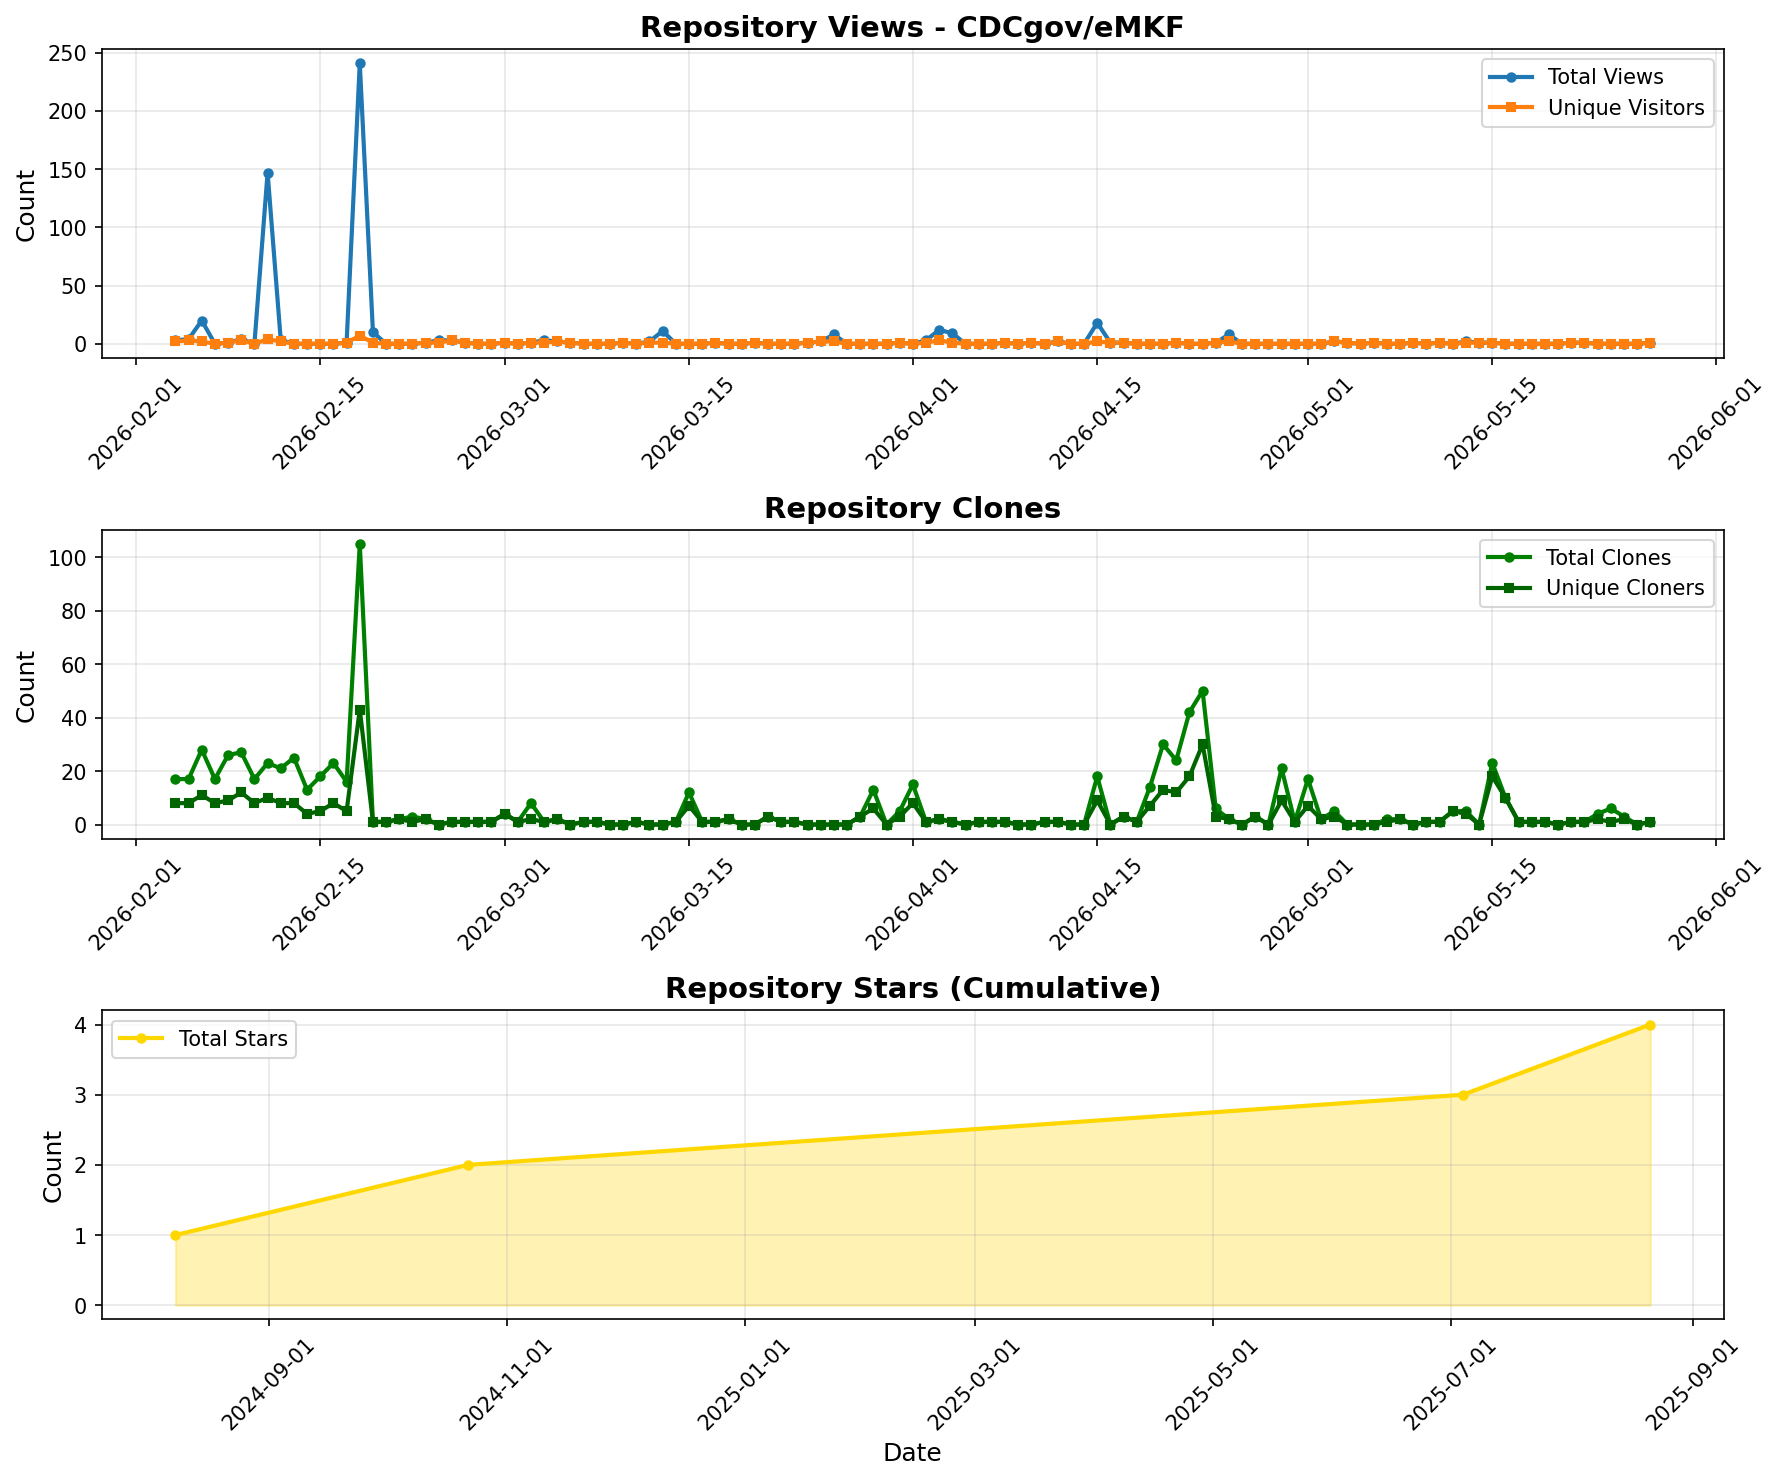
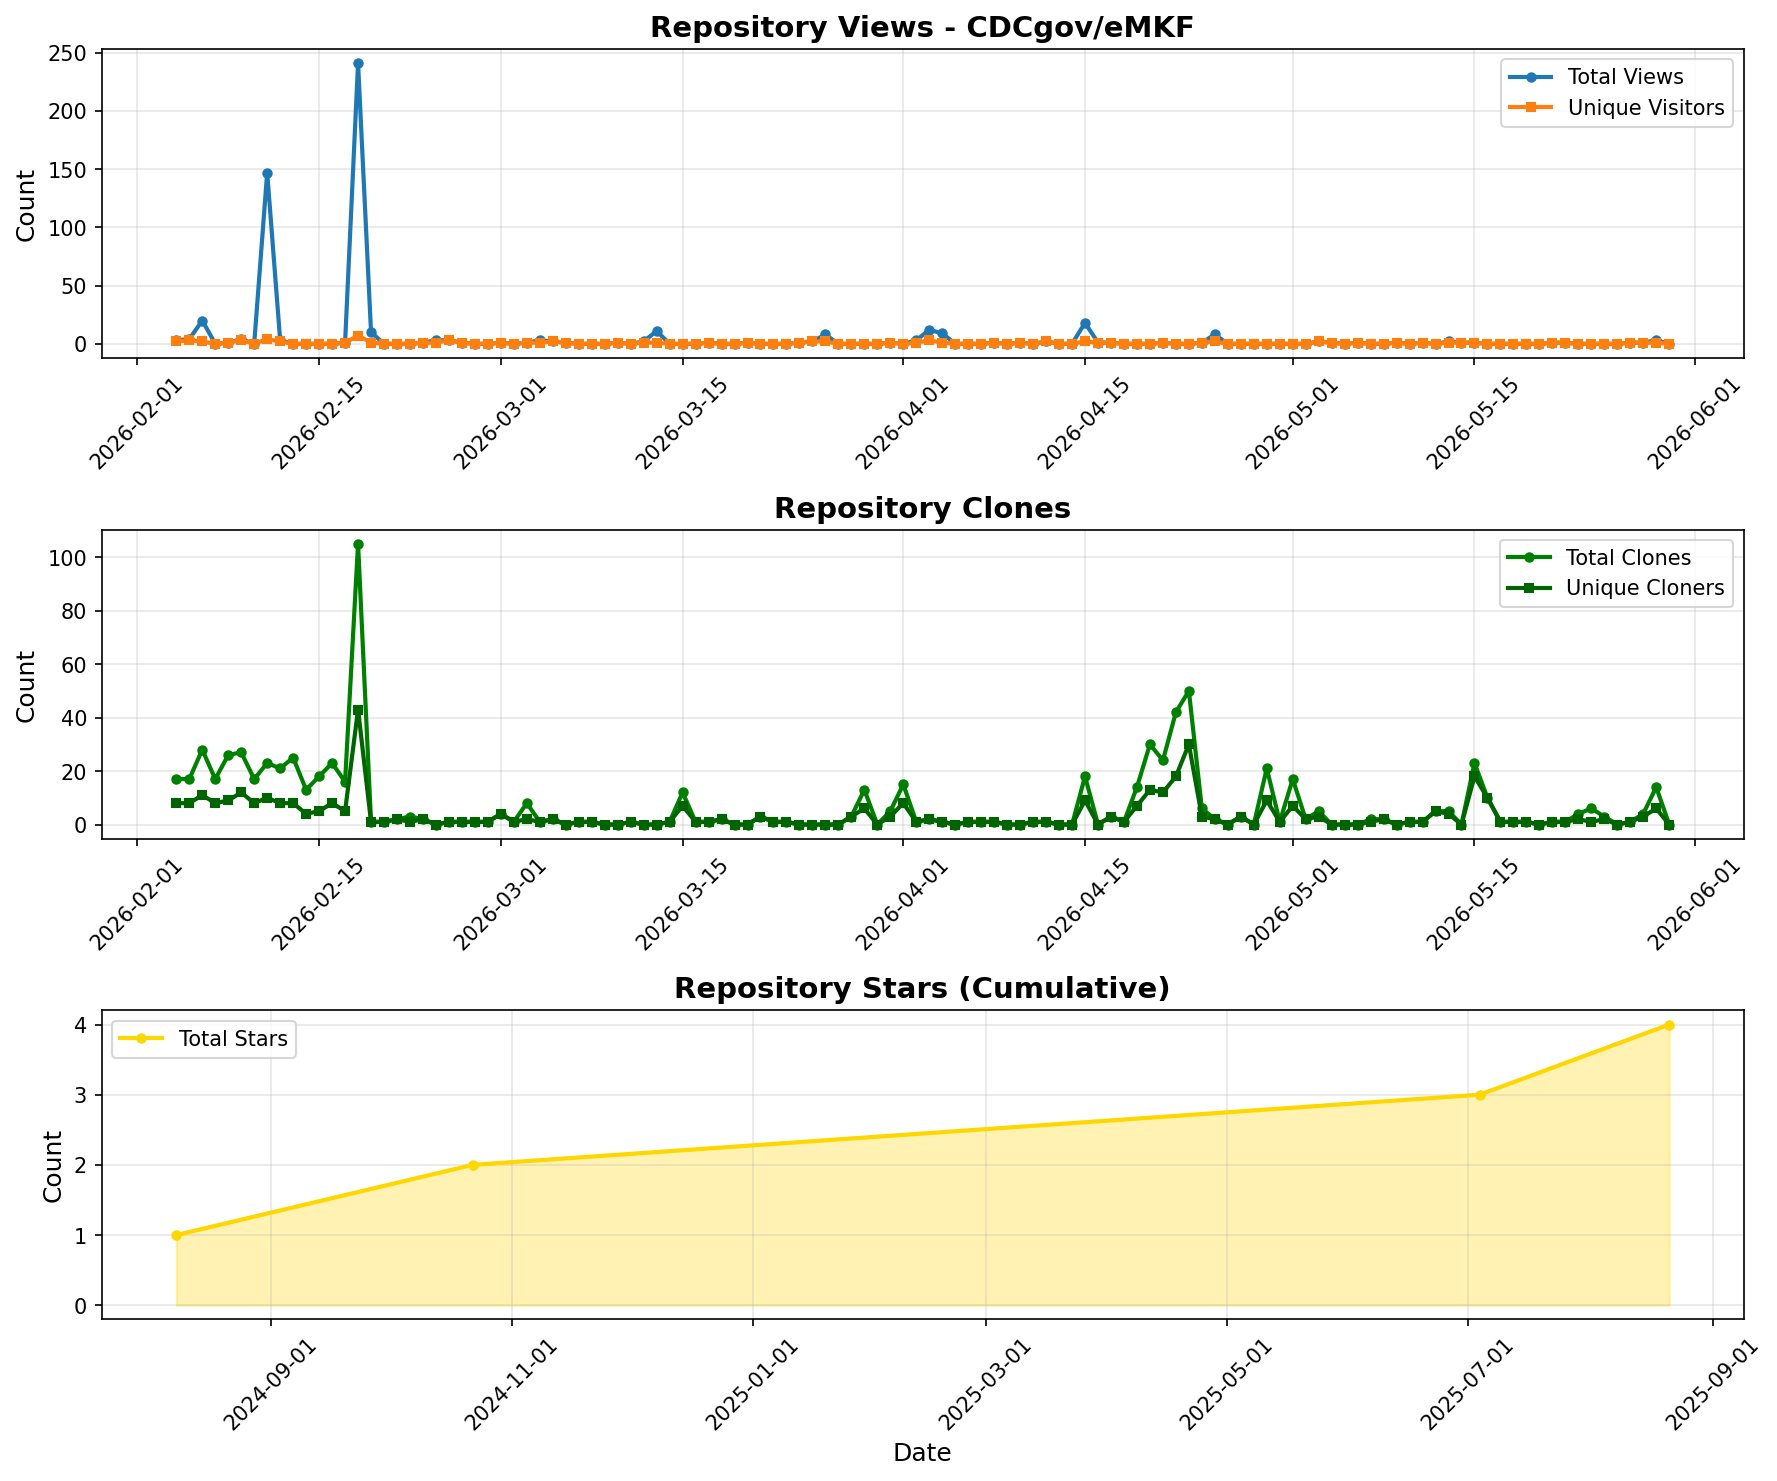
Update traffic stats [skip ci]

diff --git a/.traffic/README.md b/.traffic/README.md
@@ -1,6 +1,6 @@
 # Repository Traffic Statistics
 
-> Last updated: **May 29, 2026 at 02:03 UTC**
+> Last updated: **June 01, 2026 at 02:35 UTC**
 
 ## 📊 Traffic Overview
 
@@ -11,15 +11,15 @@
 ### Latest 14 Days
 | Metric | Total | Unique |
 |--------|-------|--------|
-| 👁️ **Views** | 5 | 5 |
-| 📦 **Clones** | 52 | 39 |
+| 👁️ **Views** | 7 | 5 |
+| 📦 **Clones** | 37 | 20 |
 | ⭐ **Stars** | 4 | - |
 
 ### All Time (Since Tracking Started)
 | Metric | Total | Unique | Data Points |
 |--------|-------|--------|-------------|
-| 👁️ **Views** | 549 | 78 | 113 days |
-| 📦 **Clones** | 799 | 401 | 113 days |
+| 👁️ **Views** | 553 | 80 | 116 days |
+| 📦 **Clones** | 817 | 410 | 116 days |
 | ⭐ **Stars** | 4 | - | 4 days |
 
 ## 📁 Available Files